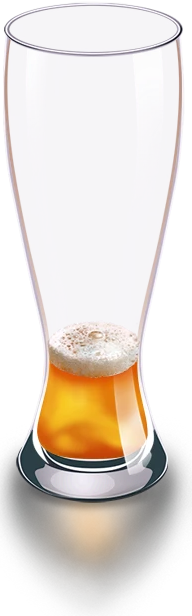
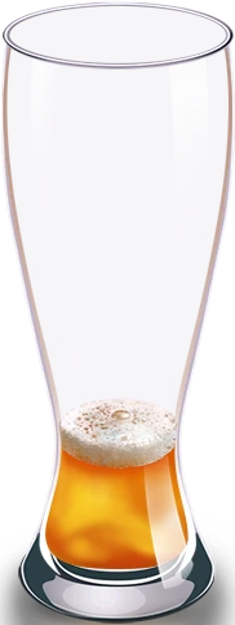
update reandom logic

diff --git a/src/components/cupcell/index.tsx b/src/components/cupcell/index.tsx
@@ -1,11 +1,15 @@
-import React, {useContext} from 'react';
-import './index.scss';
+import React, { useContext } from "react";
+import "./index.scss";
 
-import crossImg from '../../image/cross.png';
-import emptyGlassImg from '../../image/empty_glass.png.png';
-import EndbeerImg from '../../image/endbeer.png';
-import AddbeerImg from '../../image/addbeer.png';
-import pipes1 from '../../image/pipes1.png';
+import crossImg from "../../image/cross.png";
+import cup0Img from "../../image/cup0.png";
+import cup1Img from "../../image/cup1.png";
+import cup2Img from "../../image/cup2.png";
+import cup3Img from "../../image/cup3.png";
+import EndbeerImg from "../../image/endbeer.png";
+import AddbeerImg from "../../image/addbeer.png";
+import pipes1IMG from "../../image/pipes1.png";
+import nowinIMG from "../../image/nowin.png";
 import { BeerContext } from "../../context/beer";
 import { BeerI } from "../../types";
 
@@ -15,35 +19,155 @@ interface CupCellProps {
 
 const CupCell: React.FC<CupCellProps> = ({ activate }) => {
   const { beers, setBeers } = useContext(BeerContext)!;
-  console.log(beers);
-  
 
-  const addbeerClick = (id: string) => {
+  const addGlassClick = (id: string) => {
     const updateBeer = beers.map((value) => {
-      return value.id === id
-        ? { id: value.id, value: value.value, check: value.check, flag: true }
-        : value;
+      return value.id === id ? { ...value, flag: true } : value;
     });
     setBeers(updateBeer);
   };
-  
+
+  const addBeerClick = (id: string, value: number) => {
+    let beerFlag: number = 0;
+    if (value === 0) {
+      beerFlag =
+        Math.floor(Math.random() * 2) + 1 < 0.48
+          ? 2
+          : Math.floor(Math.random() * 2) + 1;
+    } else if (value === 2) {
+      beerFlag =
+        Math.floor(Math.random() * 5) + 1 < 0.18
+          ? 5
+          : Math.floor(Math.random() * 5) + 1;
+    } else if (value === 5) {
+      beerFlag =
+        Math.floor(Math.random() * 12) + 1 < 0.081
+          ? 12
+          : Math.floor(Math.random() * 12) + 1;
+    } else if (value === 12) {
+      beerFlag =
+        Math.floor(Math.random() * 30) + 1 < 0.031
+          ? 30
+          : Math.floor(Math.random() * 30) + 1;
+    } else if (value === 30) {
+      beerFlag =
+        Math.floor(Math.random() * 100) + 1 < 0.0098
+          ? 100
+          : Math.floor(Math.random() * 100) + 1;
+    }
+
+    const updateBeerData = beers.map((item) => {
+      return item.id === id
+        ? beerFlag === 2 ||
+          beerFlag === 5 ||
+          beerFlag === 12 ||
+          beerFlag === 30 ||
+          beerFlag === 100
+          ? { ...item, value: beerFlag }
+          : { ...item, check: false }
+        : { ...item };
+    });
+    setBeers(updateBeerData);
+  };  
+
   return (
-    <div
-      className="cupcell-container"
-    >
+    <div className="cupcell-container">
       {activate.flag ? (
-        <div className='add-beer'>
-          <img className='beer-pipes' src={pipes1} alt="pipes" />
-          <img className='empty-glass' src={emptyGlassImg} alt='emptyGalssImg'/>
-          <div className='cup-under-control'>
-            <img className='add-beer-control' src={AddbeerImg} alt='AddbeerImg'/>
-            <img className='end-beer-control' src={EndbeerImg} alt='EndbeerImg'/>
+        !activate.check ? (
+          <div className="cupcell-container-item">
+            <img
+              className="cupcell-container-top"
+              src={pipes1IMG}
+              alt="pipes1IMG"
+            />
+            <div className="cupcell-container-body">
+              <img className="emptyGlassImg" src={nowinIMG} alt="AddbeerImg" />
+              <div className="cupcell-container-control">
+                <img
+                  className="AddbeerImg"
+                  src={AddbeerImg}
+                  alt="AddbeerImg"
+                  style={{ opacity: 0 }}
+                />
+                <img
+                  className="EndbeerImg"
+                  src={EndbeerImg}
+                  alt="EndbeerImg"
+                  style={{ opacity: 0 }}
+                />
+              </div>
+            </div>
           </div>
-        </div>
+        ) : activate.value === 0 ? (
+          <div className="cupcell-container-item">
+            <img
+              className="cupcell-container-top"
+              src={pipes1IMG}
+              alt="pipes1IMG"
+            />
+            <div className="cupcell-container-body">
+              <img className="emptyGlassImg" src={cup0Img} alt="AddbeerImg" />
+              <div className="cupcell-container-control">
+                <img
+                  className="AddbeerImg"
+                  src={AddbeerImg}
+                  alt="AddbeerImg"
+                  onClick={() => addBeerClick(activate.id, activate.value)}
+                />
+                <img className="EndbeerImg" src={EndbeerImg} alt="EndbeerImg" />
+              </div>
+            </div>
+          </div>
+        ) : (
+          <div className="cupcell-container-item">
+            <img
+              className="cupcell-container-top"
+              src={pipes1IMG}
+              alt="pipes1IMG"
+            />
+            <div className="cupcell-container-body">
+              {activate.value === 2 ? (
+                <img className="emptyGlassImg" src={cup1Img} alt="AddbeerImg" />
+              ) : activate.value === 5 ? (
+                <img className="emptyGlassImg" src={cup2Img} alt="AddbeerImg" />
+              ) : activate.value === 12 ? (
+                <img className="emptyGlassImg" src={cup3Img} alt="AddbeerImg" />
+              ) : activate.value === 30 ? (
+                <img className="emptyGlassImg" src={cup3Img} alt="AddbeerImg" />
+              ) : (
+                <img className="emptyGlassImg" src={cup3Img} alt="AddbeerImg" />
+              )}
+              <div className="cupcell-container-control">
+                <img
+                  className="AddbeerImg"
+                  src={AddbeerImg}
+                  alt="AddbeerImg"
+                  onClick={() => addBeerClick(activate.id, activate.value)}
+                />
+                <img className="EndbeerImg" src={EndbeerImg} alt="EndbeerImg" />
+              </div>
+            </div>
+          </div>
+        )
       ) : (
-        <div className='add-glass'>
-          <img className='beer-pipes' src={pipes1} alt="pipes" />
-          <img className='add-beer-but' src={crossImg} alt='crossImg' onClick={() => addbeerClick(activate.id)}/>
+        <div className="cupcell-container-item">
+          <img
+            className="cupcell-container-top"
+            src={pipes1IMG}
+            alt="pipes1IMG"
+          />
+          <div className="cupcell-container-body">
+            <img
+              className="emptyGlassImg"
+              src={crossImg}
+              alt="AddbeerImg"
+              onClick={() => addGlassClick(activate.id)}
+            />
+            <div className="cupcell-container-control">
+              <img className="AddbeerImg" src={AddbeerImg} alt="AddbeerImg" />
+              <img className="EndbeerImg" src={EndbeerImg} alt="EndbeerImg" />
+            </div>
+          </div>
         </div>
       )}
     </div>

diff --git a/src/components/cupcell/index.scss b/src/components/cupcell/index.scss
@@ -1,65 +1,50 @@
 .cupcell-container {
   width: 17.5%;
   display: flex;
-  align-items: flex-end;
   justify-content: center;
   box-sizing: border-box;
 
-  img{
+  img {
     cursor: pointer;
   }
 
-  
-  
-  .add-glass {
-    height: 100%;
+  .cupcell-container-item {
     display: flex;
+    height: 41.9vw;
     flex-direction: column;
     align-items: center;
     justify-content: space-between;
-    box-sizing: border-box;
-    
-    .beer-pipes {
+
+    .cupcell-container-top {
       width: 3.2vw;
     }
 
-    .add-beer-but {
-      width: 9vw;
-      margin-bottom: 12vh;
-    }
-  }
-
-  .add-beer {
-    display: flex;
-    flex-direction: column;
-    align-items: center;
-    box-sizing: border-box;
-
-    .beer-pipes {
-      width: 3.2vw;
-    }
-
-    .empty-glass {
-      margin-top: 7.2vh;
-      width: 83%;
-    }
-
-    .cup-under-control {
+    .cupcell-container-body {
       display: flex;
-      justify-content: center;
+      flex-direction: column;
+      justify-content: flex-end;
       align-items: center;
       gap: 1vw;
-      box-sizing: border-box;
-      padding: 2.9vh 0;
 
-      .add-beer-control {
-        width: 4vw;
+      .emptyGlassImg {
+        width: 10.5vw;
       }
 
-      .end-beer-control {
-        width: 2.5vw;
-        height: 2.5vw;
-        opacity: 0.5;
+      .cupcell-container-control {
+        display: flex;
+        justify-content: center;
+        gap: 1vw;
+        align-items: center;
+
+        .AddbeerImg {
+          width: 3.5vw;
+        }
+
+        .EndbeerImg {
+          width: 2vw;
+          height: 2vw;
+          opacity: 0.5;
+        }
       }
     }
   }

diff --git a/src/context/beer.tsx b/src/context/beer.tsx
@@ -24,11 +24,11 @@ interface BeerProviderProps {
 
 export const BeerProvider: React.FC<BeerProviderProps> = ({ children }) => {
   const [beers, setBeers] = useState<BeerI[]>([
-    { id: "a", value: 2, check: false, flag: false },
-    { id: "b", value: 2, check: false, flag: false },
-    { id: "c", value: 2, check: false, flag: true },
-    { id: "d", value: 2, check: false, flag: false },
-    { id: "e", value: 2, check: false, flag: false },
+    { id: "a", value: 0, check: true, flag: false },
+    { id: "b", value: 0, check: true, flag: false },
+    { id: "c", value: 0, check: true, flag: true },
+    { id: "d", value: 0, check: true, flag: false },
+    { id: "e", value: 0, check: true, flag: false },
   ]);
 
   const value = { beers, setBeers };

diff --git a/src/components/content/index.scss b/src/components/content/index.scss
@@ -46,8 +46,8 @@
       width: 90%;
       display: flex;
       box-sizing: border-box;
-      padding: 2vh 0;
-      gap: 10vw;
+      padding: 5.8vh 0 1.5vh;
+      gap: 7vw;
 
       p {
         color: #fff;
@@ -59,7 +59,7 @@
         display: flex;
         flex-direction: column;
         align-items: flex-end;
-        width: 37.5%;
+        width: 39.5%;
 
         .content-bet-sell{
           text-align: center;
@@ -98,7 +98,7 @@
             display: flex;
             justify-content: space-between;
             box-sizing: border-box;
-            padding: 0.3vh 2vw;
+            padding: 0.3vh 3vw;
             background-color: rgba(0, 0, 0, 0.575);
             border-radius: 60px;
             gap: 2vw;

diff --git a/src/components/content/index.tsx b/src/components/content/index.tsx
@@ -13,8 +13,9 @@ const ContentComponents: React.FC = () => {
   const [win, setWin] = useState(10);
   const { beers, setBeers } = useContext(BeerContext)!;
 
- 
-
+  const addBetButtonClick = () => {
+    
+  }
   return (
     <div className="contnet-components">
       <img className="headerImg" src={headerImg} alt="headerImg" />
@@ -69,5 +70,7 @@ const ContentComponents: React.FC = () => {
     </div>
   );
 };
+
+
 
 export default ContentComponents;

diff --git a/src/components/top/index.scss b/src/components/top/index.scss
@@ -14,7 +14,7 @@
   p{
     text-shadow: 0 0 2px #fff;
     color: white;
-    font-size: 26px;
+    font-size: 1.4vw;
     font-weight: 600;
     margin: 0;
     font-family: Noto Sans, Sans-Serif;

diff --git a/src/types/index.ts b/src/types/index.ts
@@ -4,3 +4,8 @@ export interface BeerI {
   check: boolean;
   flag: boolean;
 }
+
+export interface Balance {
+  balance: number;
+
+}
